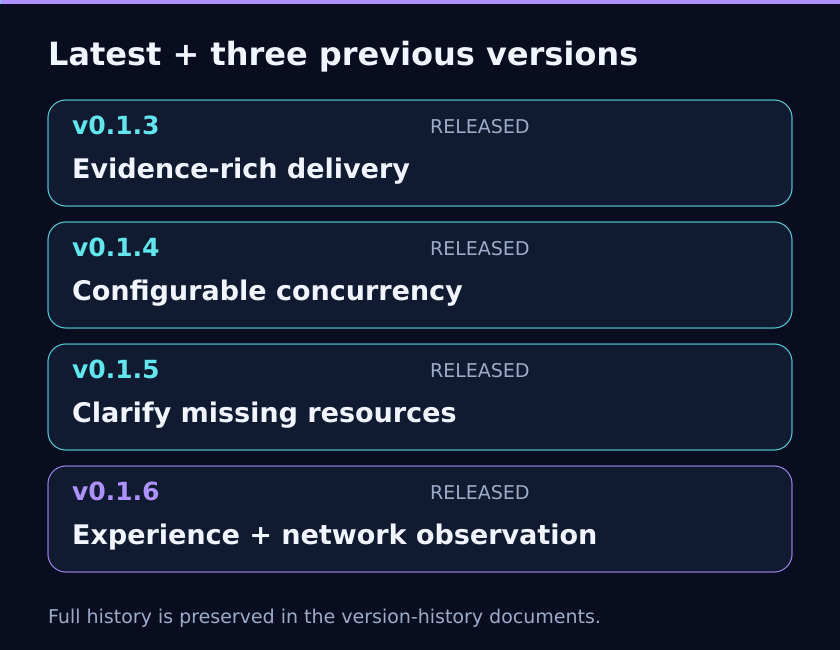
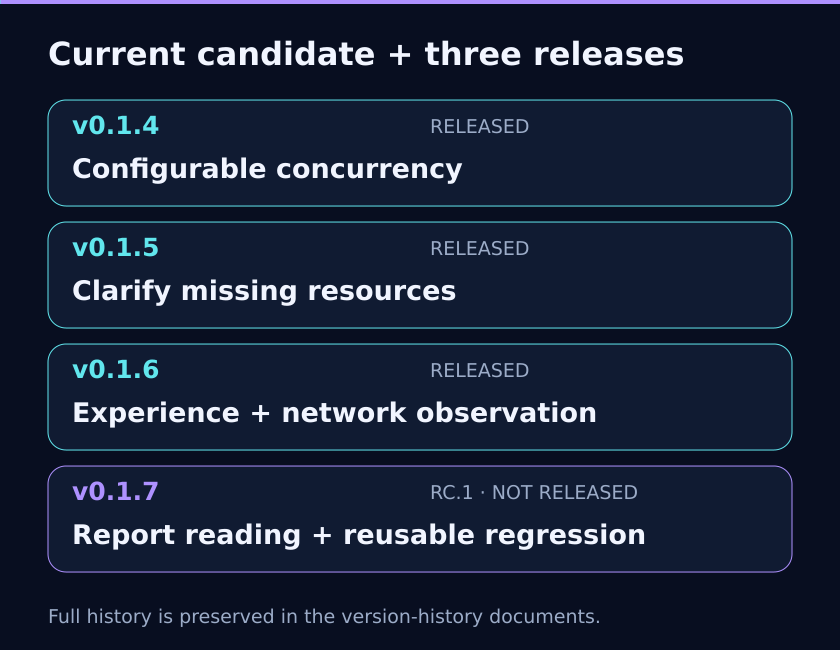
docs(v0.1.7): align bilingual visuals and prepare integrated review

diff --git a/docs/v0.1.7-cloud-review.md b/docs/v0.1.7-cloud-review.md
@@ -1,0 +1,64 @@
+# v0.1.7 云端整合审阅
+
+日期：2026-10-31。当前候选为 **0.1.7-rc.1 / report-step-evidence-1**；主契约 v8，regressionVersion 1，networkVersion 1。此文是人工审阅入口，不是正式发布证明。
+
+## 整合结果与分支关系
+
+对本次新拉取的远端 refs 逐一执行祖先关系检查，四个分支均已包含在 `6040a1a2172a0cb136e54463293d1c927d8e41aa` 中：
+
+| 分支 | 本轮核验的提交 | 与最新基线的关系 |
+| --- | --- | --- |
+| feat/v0.1.7-report-usability | 08440c4de87a301d42d23e3f8d7913fc490aab40 | 祖先，已包含 |
+| feat/v0.1.7-resource-regression | 42082717537de9e91cc6aedf2d6f270053e49184 | 祖先，已包含 |
+| feat/v0.1.7-report-resource-regression | 1614b454d08550933375c6733727699bca2830fc | 祖先，已包含 |
+| fix/v0.1.7-report-reader-review | 6040a1a2172a0cb136e54463293d1c927d8e41aa | 最新完整基线 |
+
+原合并提交 `9cf1c00` 已整合两条功能线；最新修复继续位于其后。因此本轮从最新基线建立 `chore/v0.1.7-integration-review`，没有重复 cherry-pick、虚构新的冲突解决或整份覆盖代码。保留原分支、所有原提交与 0.1.8 需求。核验时 main 为 `287534e`；本轮不更新 main。
+
+## 0.1.7 已有能力
+
+- 报告方案 B：问题/结果和原预期置顶，实际步骤与所选证据并排，范围说明双层折叠，原始记录与历史保留。
+- 整轮资源沟通：需求/目标范围与身份、数据、对象、观察条件、授权分开核实；有缺口不自动认定产品缺陷。
+- 首次成果与回归：AI 整理有来源的规则/任务修订，保存失败及未完成事实；按历史状态命中目标后选择整条场景重跑，或对明确测试集进行全量回归。
+- 每轮独立运行与当次绑定；未知副作用不自动重放。比较展示目标结果及条件差异，不自动归因新版本或断言同一 Bug。
+
+以上能力由现有实现、契约与工程回归支撑；不表示 AI 对所有业务的判断已全面验收。维护者已报告本地开发及自测完成，云端检查不替代其真实业务验收。
+
+## 本轮文档和图片更新
+
+- 双语 README：当前候选状态、回归范围、旧格式边界与审阅入口一致；正式下载仍指向已发布的 0.1.6。
+- 双语头图：从仅首次交付扩展到首次测试、证据审阅及回归复用，明确 0.1.7-rc.1 未发布。
+- 双语流程图：补充按状态整场景/明确测试集全量选择、本轮资源授权核验、独立新运行与新证据；不是固定业务决策树。
+- 双语架构图：补充任务/规则修订和比较职责，保留 AI 判断、Ego 操作、工具确定性事务的边界。
+- 双语报告图：改为方案 B 的问题与原预期、实际步骤、所选证据、范围及历史布局。全部为合成示意，不冒充真实报告截图。
+- 双语并发图：沿用默认串行、显式并发、单用例一个 Space、协调者复核的语义，更新当前候选标识。
+- README 四版图：0.1.4–0.1.7，其中 0.1.7 明确标为候选；完整版本历史和原 v0.1.2–0.1.5 历史图保留，作者二维码不变。
+- 本地收尾/集成记录顶部补充当前状态，保留当时的 revision、测试数、未推送及限制等历史事实，不将其改写成本次验证。
+- 增加双语图片内容与候选状态回归，保留图文入口、生成器可重现及禁止覆盖测试。
+
+## 0.1.8 仍为规划
+
+[中文需求](v0.1.8-preview.md)和[English](v0.1.8-preview.en.md)保持独立：稳定最小测试点编号、按编号单点回测、最新完整目标清单、精确动作证据、参数化、稳定操作片段复用、实际用量与效果评测。当前按状态选择的是整条场景，不宣传为已支持按测试点编号单点回测；不承诺节省 token 或缺陷发现率。
+
+## 验证与限制
+
+云端基线复验：Linux / Node v24.22.1，严格类型通过；203 项测试中 202 通过、0 失败、1 跳过。
+
+本轮变更后复验：
+
+- `npm run typecheck`、契约漂移检查及构建通过。
+- `npm test`：204 项，203 通过、0 失败、1 跳过；跳过为 Windows 专属 checkpoint 替换故障恢复场景，Linux 不执行该项，不改为通过。
+- `npm run check:public` 与 `git diff --check` 通过；公开检查覆盖当前文件/引用/启发式敏感模式，不覆盖全部历史。
+- 双语 12 张更新 PNG 已逐张查看；SVG 222 个文字元素边界检查没有画布溢出。SVG 生成器可重现、原文件覆盖拒绝和图文入口回归通过。
+- 独立合成安装内容、所有 Markdown 相对链接、CLI 从异目录运行、报告生成与读回随工程套件通过，不交付正式版本包。
+- 首轮变更回归发现新增审阅文档未进入运行内容清单，导致独立包内引用缺失；已补充 `runtimeFiles` 并全量复验通过，没有删除链接或放宽测试。
+- 初次依赖安装因默认缓存目录不可写失败，改为任务临时缓存后成功；依赖版本及锁文件未修改。
+
+本轮不操作真实 Ego、业务账号或用户电脑，不更新已安装 Skill。不改写历史 Git 对象；本地收尾记录提及的历史开发机路径残留不等于已清理，当前文件检查不能证明全部历史、附件、缓存或私有资料安全。
+
+## 人工审阅与发布关口
+
+1. 在 GitHub 审阅本分支相对 main 的完整差异，重点核对当前功能与文档/图片一致性，以及 0.1.8 规划边界。
+2. 本次“开始执行”仅启动整合与发布准备。明确审阅通过前，不合入 main、不创建 Tag/Release、不发布正式代码包。
+3. 通过后才执行正式定版：同步 package/工具/Skill 元数据及中英文图文正式状态，复跑检查、构建完整安装包与校验值，核对最终远端提交，创建不可移动 Tag 和中文为主 Release。
+4. 正式源码归档不等同完整 Skill 安装包；版本包需包含运行脚本、schema、示例、指南及完整性清单。正式发布不扩大工程测试和本地自测的已知范围。

diff --git a/README.en.md b/README.en.md
@@ -8,18 +8,20 @@
 
 ## Current release
 
-The development candidate is **0.1.7-rc.1 / report-step-evidence-1**, closing at its current local scope and still unreleased. It integrates whole-scope resource clarification, first-run records, immutable task/rule revisions, whole-scenario status reruns, full declared scope and scheme-B report reading. Main contracts are v8, regressionVersion 1 and networkVersion 1. Scheme B places the issue/result and original expectation above actual steps and selected evidence, with independent nested scope disclosures. See [scheme B](docs/v0.1.7-step-evidence.md), [resource-readiness validation](docs/v0.1.7-resource-readiness-validation.md), [regression-reuse validation](docs/v0.1.7-regression-reuse-validation.md) and [local closeout (Chinese)](docs/v0.1.7-local-closeout.md).
+The development candidate is **0.1.7-rc.1 / report-step-evidence-1**, in cloud integration and human-review preparation, still unreleased. It integrates whole-scope resource clarification, first-run records, immutable task/rule revisions, whole-scenario status reruns, full declared scope and scheme-B report reading. Main contracts are v8, regressionVersion 1 and networkVersion 1. Scheme B places the issue/result and original expectation above actual steps and selected evidence, with independent nested scope disclosures. See [scheme B](docs/v0.1.7-step-evidence.md), [resource-readiness validation](docs/v0.1.7-resource-readiness-validation.md), [regression-reuse validation](docs/v0.1.7-regression-reuse-validation.md) and [local closeout (Chinese)](docs/v0.1.7-local-closeout.md).
 
 **0.1.6 / native-network-observation-1**. Download the complete package and checksums from [v0.1.6](https://github.com/99Like-wjj/ai-autonomous-testing-ego-lite/releases/tag/v0.1.6). The maintainer reported a usable local trial with one requirements document; this is not broad acceptance across products, models or hosts. See [validation](docs/testing.en.md). Builds do not update installed Skills.
 
 
 Invoke `$ai-autonomous-testing-ego-lite`. Complete packages include Skill guidance, compiled Node ESM tools, schemas, examples and an integrity manifest. Source is TypeScript; installed use requires Node.js >=22.
 
+See the [cloud integration review](docs/v0.1.7-cloud-review.md) for branch ancestry and review scope. All four branch heads are already included in the latest baseline; no duplicate merge is needed. Main, Tags and Releases remain unchanged until explicit human approval.
+
 ## Version evolution
 
-![Latest four versions: v0.1.3 to v0.1.6, all released. Capability illustration only.](docs/images/readme-version-history.png)
+![Latest four versions: v0.1.4–v0.1.6 released; v0.1.7 is an unreleased candidate. Capability illustration only.](docs/images/readme-version-history.png)
 
-README shows the latest formal release plus three previous releases. [Full version history](docs/version-history.en.md) retains older releases. v0.1.7 report/resource/regression work is integrated but unreleased; v0.1.8 is requirements planning. Neither appears as a released version in the four-version illustration.
+README shows the current version plus three previous versions. v0.1.7 is explicitly marked as a candidate; v0.1.4–v0.1.6 are released. [Full version history](docs/version-history.en.md) retains older releases. Hero, workflow, architecture, concurrency and report illustrations now describe the candidate, not real test evidence. v0.1.8 remains requirements planning.
 
 ## First-run records and two regression modes
 
@@ -27,7 +29,7 @@ The AI preserves normative sources, actual observations, failures and incomplete
 
 Task definition, current resources/authorization and business verdicts are separate. Every regression creates an independent run with frozen task/rule revisions and selection. Unknown side effects require read-only reconciliation, not automatic replay. Comparisons expose conditions and AI comparability reasoning without automatically blaming a newer release.
 
-Local tools only perform data transactions and explicit selection; the current AI owns task authoring and execution. See [regression assets and binding](docs/regression-reuse.md). Main contracts are v8 and regressionVersion is 1. Existing v5/v6 data remains untouched and is not automatically migrated. The report enhancements are included.
+Local tools only perform data transactions and explicit selection; the current AI owns task authoring and execution. See [regression assets and binding](docs/regression-reuse.md). Main contracts are v8 and regressionVersion is 1. Existing v5/v6/v7 data remains untouched and is not automatically migrated. The report enhancements are included.
 
 ## Capabilities delivered in v0.1.6
 

diff --git a/docs/testing.en.md b/docs/testing.en.md
@@ -1,5 +1,10 @@
 # Validation record and coverage limits
 
+## v0.1.7 cloud integration and documentation review (2026-10-31)
+
+All four candidate branch heads are ancestors of `6040a1a`; no duplicate merge was needed. The review branch updates bilingual documentation and twelve illustrations while preserving runtime behavior and v0.1.8 planning boundaries. Linux / Node v24.22.1: strict types, contract drift, build and public-file checks pass; 204 tests, 203 passed, zero failed, one Windows-only checkpoint recovery test skipped. All updated PNGs were visually inspected; 222 SVG text bounds remain inside their canvases. An initially missing review-document package entry was fixed and the full suite rerun. See [cloud review](v0.1.7-cloud-review.md) for scope and publication gates. No real Ego/UAT run, user installation, main merge, Tag or Release in this phase.
+
+
 ## v0.1.7 local closeout and v0.1.8 requirements (2026-10-31)
 
 The `0.1.7-rc.1 / report-step-evidence-1` local review covers source, capability descriptions and requirements. Strict types pass; the full engineering suite reports 203 tests, 202 passed, zero failed and one Windows symlink-privilege skip. Publication/link checks, Skill format, runtime integrity and heuristic checks of current files and local history have distinct scopes. Two historical documentation blobs still retain generalized-away developer paths; this is not a claim that all history is sanitized. See the [closeout record (Chinese)](v0.1.7-local-closeout.md).

diff --git a/CHANGELOG.md b/CHANGELOG.md
@@ -6,6 +6,13 @@
 - 同时规划原问题与新发现区分、最新完整目标清单、逐动作证据、数据参数化、AI 按需操作复用，以及可核验成本和效果对照。详见[需求前瞻](docs/v0.1.8-preview.md)及[English](docs/v0.1.8-preview.en.md)。
 - 仅为规划；软件仍为0.1.7-rc.1，契约v8/regressionVersion 1/networkVersion 1不变。具体设计须审核，本轮不开发018能力、不迁移历史、不合并发布或交付版本包。
 
+## 0.1.7-rc.1 — 云端整合与人工审阅准备，未发布
+
+- 核验四个 0.1.7 分支均已被 `6040a1a` 包含，保留原合并历史，不重复 cherry-pick 或覆盖实现。
+- 同步双语 README、头图、流程、架构、并发与方案 B 报告示意；四版图更新为 0.1.4–0.1.7，明确候选未发布，完整历史不删。
+- 新增云端审阅说明，区分当前状态与本地历史验证时点；0.1.8 仍为规划，不新增其测试点编号或单点回测功能。
+- 保留软件 0.1.7-rc.1、revision report-step-evidence-1 及 v8 契约；人工审核通过前不合入 main，不创建 Tag、Release 或正式版本包。
+
 ## 0.1.7-rc.1 — 本地文档与代码收尾审核，未发布
 
 - 中英文README及版本历史补全0.1.6实际交付的经验、目标评估、统一记录、native接口观测和跨宿主修复，区分各阶段验证与全面业务验收。

diff --git a/docs/version-history.en.md b/docs/version-history.en.md
@@ -12,9 +12,11 @@ The AI interprets goals and judges business outcomes, Ego operates the browser, 
 
 v0.1.6 also concretized design/execution topics and misjudgment examples, shared observations/assessments across serial and parallel records, retained attempts during incremental goal updates, separated outcomes from causes, handled network content/capacity/stop/handoff and fixed linked CLI startup. Engineering, synthetic and isolated browser checks keep distinct coverage; one owner trial is not general business or host acceptance.
 
-## v0.1.7 · Local development closeout, unreleased
+## v0.1.7 · Cloud integration review, unreleased
 
 The current `0.1.7-rc.1 / report-step-evidence-1` candidate uses schema v8. It integrates whole-scope resource communication, first-run tasks/rules, independent run binding and goal comparisons. The [scheme-B reader](v0.1.7-step-evidence.md) places actual steps beside evidence, retaining all goals, expectations and history without inventing execution or changing outcomes. The [v0.1.7 preview](v0.1.7-preview.md) remains historical; broader quality evaluation is not claimed complete.
+
+Branch verification, documentation/image changes and review gates: [cloud review](v0.1.7-cloud-review.md). The main branch and formal release remain unchanged.
 
 ## v0.1.8 · Testing-quality and test-point regression requirements
 

diff --git a/docs/testing.md b/docs/testing.md
@@ -1,5 +1,10 @@
 # 验证记录与覆盖边界
 
+## v0.1.7 云端整合与文档审阅（2026-10-31）
+
+四分支头均为 `6040a1a` 的祖先，无需重复合并；基于最新代码补齐双语文档与 12 张图，保留业务实现及 0.1.8 规划边界。Linux / Node v24.22.1：严格类型、契约漂移、构建、公开检查通过；204 项测试，203 通过、0 失败、1 跳过（Windows 专属 checkpoint 替换恢复）。更新 PNG 已逐张查看，222 个 SVG 文字边界无画布溢出。首轮新增审阅文档漏入包清单已修复并全量复验。具体范围与发布关口见[云端审阅](v0.1.7-cloud-review.md)。本轮未执行真实 Ego/UAT、用户安装、main 合并、Tag 或 Release。
+
+
 ## v0.1.7 本地收尾与 0.1.8 需求整理（2026-10-31）
 
 当前 `0.1.7-rc.1 / report-step-evidence-1` 在本地核验代码、能力描述与需求总结。严格类型检查通过，完整工程套件 203 项：202 通过、0 失败、1 项 Windows 符号链接权限跳过。源码公开文件/相对链接、Skill 格式、运行时完整性及当前文件和未推送历史的凭据特征检查分别记录。历史中仍有两份文档 blob 含已泛化的开发机路径，不宣称全部历史脱敏。见[收尾记录](v0.1.7-local-closeout.md)。

diff --git a/docs/version-history.md b/docs/version-history.md
@@ -12,9 +12,11 @@
 
 0.1.6 的变化还包括设计/执行主题及具体误判场景、串行与并行共用 observations/assessments、按目标增量更新并保留 attempt、结果与根因分离、接口正文/容量/停止交接，以及链接 CLI 入口修复。它们分别有工程、合成和隔离浏览器验证；一次用户试用不代表全部业务或宿主验收，详见上述发布验证。
 
-## v0.1.7 · 本地开发收尾，尚未发布
+## v0.1.7 · 云端整合审阅，尚未发布
 
 当前为 `0.1.7-rc.1 / report-step-evidence-1`，主契约 v8。整合整轮资源沟通、首次成果与回归任务/规则、独立运行绑定及逐目标比较；报告采用[实际步骤与证据并排](v0.1.7-step-evidence.md)，保留全部目标、原预期和历史，不补造执行或改写四态。此前 [v0.1.7 前瞻](v0.1.7-preview.md)保留为历史，不能把更广的效果评测规划写成全部完成。
+
+分支核验、文档图片变更及审阅关口见[云端审阅说明](v0.1.7-cloud-review.md)。main 与正式发布保持不变。
 
 ## v0.1.8 · 测试效果与测试点回归需求
 

diff --git a/docs/v0.1.7-local-closeout.md b/docs/v0.1.7-local-closeout.md
@@ -1,5 +1,7 @@
 # v0.1.7 本地代码、文档与需求收尾核验
 
+> 2026-10-31 云端状态补充：以下正文是当时本地验证记录，其“未提交/未推送”和历史 revision 不代表当前状态。四分支已推送，最新完整基线为 `6040a1a`，均已核验包含关系；本轮云端整合与人工审阅准备另见[审阅说明](v0.1.7-cloud-review.md)。原始检查结果和限制保留，不改写历史。
+
 日期：2026-10-31。当前软件为 `0.1.7-rc.1 / report-step-evidence-1`，主契约 v8、regressionVersion 1、networkVersion 1。维护者明确本轮只核验本地代码、相关描述和需求总结；合并、分支发布及可下载代码包在云端处理。本文件不是正式发布或真实业务全量验收。
 
 ## 本地状态与能力归属

diff --git a/docs/v0.1.7-integration.md b/docs/v0.1.7-integration.md
@@ -1,5 +1,7 @@
 # 0.1.7 最终集成与验证
 
+> 2026-10-31 云端状态补充：以下正文是当时本地验证记录，其“未提交/未推送”和历史 revision 不代表当前状态。四分支已推送，最新完整基线为 `6040a1a`，均已核验包含关系；本轮云端整合与人工审阅准备另见[审阅说明](v0.1.7-cloud-review.md)。原始检查结果和限制保留，不改写历史。
+
 日期：2026-10-30。软件版本 **0.1.7-rc.1**；工具 revision **report-resource-regression-1**。当前是本地候选，不是正式发布。
 
 ## 分支与保留范围
